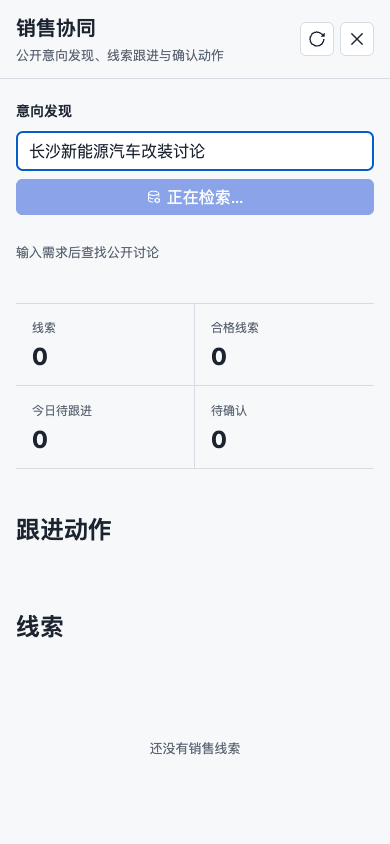
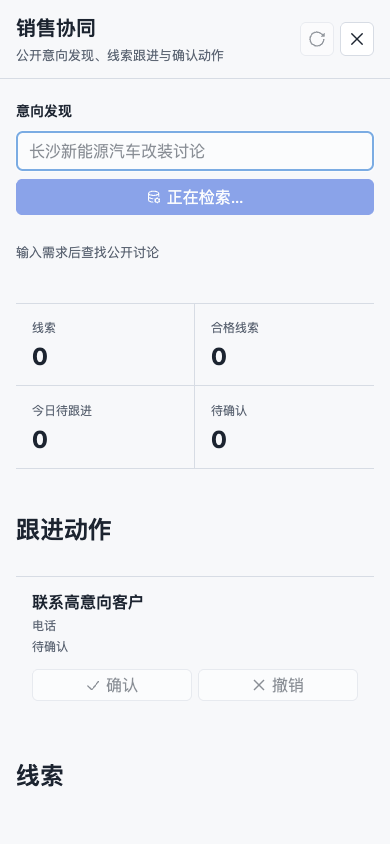
fix: 统一销售写操作忙碌态
销售检索、确认和撤销共享同步请求锁，写操作期间禁用冲突控件与刷新入口。浏览器门禁覆盖确认动作的重复提交保护，并更新移动端忙碌态证据图。

diff --git a/.ci/dsh-yootun-sales/lib/client.js b/.ci/dsh-yootun-sales/lib/client.js
@@ -28,22 +28,24 @@ window.__ModuleLoader__.load({
     async function load(signal) { const response = await fetch(PATH, { credentials: 'same-origin', redirect: 'error', signal, headers: { Accept: 'application/json' } }); if (!response.ok) throw new Error('sales request failed'); return response.json() }
     async function mutate(body) { const response = await fetch(PATH, { method: 'POST', credentials: 'same-origin', redirect: 'error', headers: { 'Content-Type': 'application/json', Accept: 'application/json' }, body: JSON.stringify(body) }); if (!response.ok) throw new Error('sales mutation failed'); return response.json() }
     function Metric({ label, value }) { return h('div', { className: 'ys-metric' }, h('span', null, label), h('strong', null, String(value ?? 0))) }
-    function IntentSearch({ t, current, update }) {
+    function IntentSearch({ t, current, update, disabled }) {
       const [query, setQuery] = useState('')
       const [busy, setBusy] = useState(false)
       const busyRef = useRef(false)
-      const run = async () => { if (busyRef.current || !query.trim()) return; busyRef.current = true; setBusy(true); try { await update({ action: 'intent_search', query: query.trim() }) } finally { busyRef.current = false; setBusy(false) } }
+      const run = async () => { if (disabled || busyRef.current || !query.trim()) return; busyRef.current = true; setBusy(true); try { await update({ action: 'intent_search', query: query.trim() }) } finally { busyRef.current = false; setBusy(false) } }
       const intent = current.intent
-      return h('section', { className: 'ys-intent', 'aria-busy': busy }, h('div', { className: 'ys-section-heading' }, h('h2', null, t('intent'))), h('div', { className: 'ys-intent-form' }, h('input', { value: query, maxLength: 500, placeholder: t('intentPlaceholder'), 'aria-label': t('intentPlaceholder'), onChange: event => setQuery(event.target.value), onKeyDown: event => { if (event.key === 'Enter') void run() } }), h('button', { type: 'button', disabled: busy || !query.trim(), onClick: () => void run() }, h(IconDataOutline16, { size: 14 }), busy ? t('intentSearching') : t('intentSearch'))), !intent ? h('div', { className: 'ys-intent-empty', role: 'status' }, t('intentEmpty')) : intent.status === 'unavailable' ? h('div', { className: 'ys-intent-empty', role: 'status' }, t('intentUnavailable')) : intent.status === 'error' ? h('div', { className: 'ys-intent-empty', role: 'alert' }, t('intentError')) : intent.items?.length ? intent.items.slice(0, 10).map((item, index) => h('article', { className: 'ys-intent-row', key: `${item.sourceUrl || item.topic || 'result'}-${index}` }, h('div', null, h('strong', null, item.topic || item.platform || t('source')), h('span', null, item.sourceUrl || ''), item.intentSignals?.length ? h('small', null, item.intentSignals.join(' · ')) : null), h('b', null, item.confidence === undefined ? '' : `${t('confidence')} ${Math.round(Number(item.confidence) * 100)}%`))) : h('div', { className: 'ys-intent-empty', role: 'status' }, t('intentEmpty')))
+      return h('section', { className: 'ys-intent', 'aria-busy': busy }, h('div', { className: 'ys-section-heading' }, h('h2', null, t('intent'))), h('div', { className: 'ys-intent-form' }, h('input', { value: query, maxLength: 500, disabled, placeholder: t('intentPlaceholder'), 'aria-label': t('intentPlaceholder'), onChange: event => setQuery(event.target.value), onKeyDown: event => { if (event.key === 'Enter') void run() } }), h('button', { type: 'button', disabled: disabled || busy || !query.trim(), onClick: () => void run() }, h(IconDataOutline16, { size: 14 }), busy ? t('intentSearching') : t('intentSearch'))), !intent ? h('div', { className: 'ys-intent-empty', role: 'status' }, t('intentEmpty')) : intent.status === 'unavailable' ? h('div', { className: 'ys-intent-empty', role: 'status' }, t('intentUnavailable')) : intent.status === 'error' ? h('div', { className: 'ys-intent-empty', role: 'alert' }, t('intentError')) : intent.items?.length ? intent.items.slice(0, 10).map((item, index) => h('article', { className: 'ys-intent-row', key: `${item.sourceUrl || item.topic || 'result'}-${index}` }, h('div', null, h('strong', null, item.topic || item.platform || t('source')), h('span', null, item.sourceUrl || ''), item.intentSignals?.length ? h('small', null, item.intentSignals.join(' · ')) : null), h('b', null, item.confidence === undefined ? '' : `${t('confidence')} ${Math.round(Number(item.confidence) * 100)}%`))) : h('div', { className: 'ys-intent-empty', role: 'status' }, t('intentEmpty')))
     }
     function statusText(status, t) { return status === 'awaiting_confirmation' ? t('pending') : status === 'confirmed_pending_adapter' ? t('adapter') : status === 'succeeded' ? t('succeeded') : status === 'failed' ? t('failed') : status === 'requires_user_login' ? t('requiresLogin') : t('dismiss') }
-    function Action({ item, t, update }) { return h('article', { className: `ys-action ys-action-${item.status}`, 'data-status': item.status }, h('div', { className: 'ys-action-main' }, h('strong', null, item.summary), h('span', null, item.channel), h('small', null, statusText(item.status, t))), item.status === 'awaiting_confirmation' ? h('div', { className: 'ys-action-buttons' }, h('button', { type: 'button', onClick: () => update({ action: 'confirm_action', id: item.id }) }, h(IconCheckOutline16, { size: 14 }), t('approve')), h('button', { type: 'button', onClick: () => update({ action: 'dismiss_action', id: item.id }) }, h(IconCloseOutline16, { size: 14 }), t('dismiss'))) : null) }
+    function Action({ item, t, update, busy }) { return h('article', { className: `ys-action ys-action-${item.status}`, 'data-status': item.status }, h('div', { className: 'ys-action-main' }, h('strong', null, item.summary), h('span', null, item.channel), h('small', null, statusText(item.status, t))), item.status === 'awaiting_confirmation' ? h('div', { className: 'ys-action-buttons' }, h('button', { type: 'button', disabled: busy, onClick: () => void update({ action: 'confirm_action', id: item.id }) }, h(IconCheckOutline16, { size: 14 }), t('approve')), h('button', { type: 'button', disabled: busy, onClick: () => void update({ action: 'dismiss_action', id: item.id }) }, h(IconCloseOutline16, { size: 14 }), t('dismiss'))) : null) }
     function Overlay({ t }) {
       const visible = useSyncExternalStore(subscribe, snapshot, snapshot)
       const shellRef = useRef(null)
       const [data, setData] = useState(null)
       const [error, setError] = useState(false)
       const [loading, setLoading] = useState(false)
+      const [busy, setBusy] = useState(false)
+      const busyRef = useRef(false)
       const [revision, setRevision] = useState(0)
       useEffect(() => {
         if (!visible) return undefined
@@ -65,9 +67,12 @@ window.__ModuleLoader__.load({
       if (!visible) return null
       const current = data || { dashboard: {}, leads: [], actions: [] }
       const update = async body => {
-        try { setData(await mutate(body)) } catch { setError(true) }
+        if (busyRef.current) return null
+        busyRef.current = true
+        setBusy(true)
+        try { const next = await mutate(body); setData(next); setError(false); return next } catch { setError(true); return null } finally { busyRef.current = false; setBusy(false) }
       }
-      const intent = h(IntentSearch, { t, current, update })
+      const intent = h(IntentSearch, { t, current, update, disabled: busy })
       const metrics = h('div', { className: 'ys-metrics' },
         h(Metric, { label: t('leads'), value: current.dashboard.leads }),
         h(Metric, { label: t('qualified'), value: current.dashboard.qualified }),
@@ -76,7 +81,7 @@ window.__ModuleLoader__.load({
       )
       const actions = h('section', { className: 'ys-section' },
         h('h2', null, t('actions')),
-        current.actions.map(item => h(Action, { key: item.id, item, t, update })),
+        current.actions.map(item => h(Action, { key: item.id, item, t, update, busy })),
       )
       const leads = h('section', { className: 'ys-section' },
         h('h2', null, t('leads')),
@@ -99,16 +104,16 @@ window.__ModuleLoader__.load({
           h('header', { className: 'ys-header' },
             h('div', null, h('h1', { id: 'ys-title' }, t('title')), h('p', null, t('subtitle'))),
             h('div', { className: 'ys-header-buttons' },
-              h(Tooltip, { label: t('refresh') }, h('button', { type: 'button', 'aria-label': t('refresh'), disabled: loading, onClick: () => setRevision(value => value + 1) }, h(IconRefreshOutline16, { size: 16 }))),
+              h(Tooltip, { label: t('refresh') }, h('button', { type: 'button', 'aria-label': t('refresh'), disabled: loading || busy, onClick: () => setRevision(value => value + 1) }, h(IconRefreshOutline16, { size: 16 }))),
               h(Tooltip, { label: t('close') }, h('button', { type: 'button', 'aria-label': t('close'), onClick: closeOverlay }, h(IconCloseOutline16, { size: 16 }))),
             ),
           ),
-          h('div', { className: 'ys-content', 'aria-busy': loading }, content),
+          h('div', { className: 'ys-content', 'aria-busy': loading || busy }, content),
         ),
       )
     }
     function Button({ wide, t }) { return h(Tooltip, { label: t('open'), disabled: wide }, h('button', { type: 'button', className: `ys-button${wide ? ' ys-wide' : ''}`, 'aria-label': t('open'), onClick: openOverlay }, h(IconDataOutline16, { size: wide ? 14 : 18 }), wide ? h('span', null, t('open')) : null)) }
-    const css = `.ys-button{display:flex;width:36px;height:36px;align-items:center;justify-content:center;gap:8px;border:0;border-radius:6px;background:transparent;color:var(--dsw-alias-label-secondary);cursor:pointer}.ys-button:hover{background:var(--dsw-alias-bg-layer-2);color:var(--dsw-alias-label-primary)}.ys-wide{width:100%;height:34px;justify-content:flex-start;padding:0 10px}.ys-wide span{font-size:13px}.ys-overlay{position:fixed;inset:0;z-index:510;background:var(--dsw-alias-bg-base);color:var(--dsw-alias-label-primary)}.ys-shell{display:grid;grid-template-rows:auto minmax(0,1fr);width:100%;height:100%;overflow:hidden}.ys-header{display:flex;min-height:74px;align-items:center;justify-content:space-between;padding:14px 24px;border-bottom:1px solid var(--dsw-alias-border-l1)}.ys-header h1{margin:0;font-size:20px}.ys-header p{margin:4px 0 0;color:var(--dsw-alias-label-secondary);font-size:13px}.ys-header-buttons{display:flex;gap:6px}.ys-header-buttons button{display:grid;width:34px;height:34px;place-items:center;border:1px solid var(--dsw-alias-border-l1);border-radius:6px;background:var(--dsw-alias-bg-layer-1);color:inherit;cursor:pointer}.ys-header-buttons button:disabled{opacity:.45;cursor:default}.ys-content{min-height:0;overflow:auto;padding:22px 24px 40px}.ys-intent,.ys-section{display:grid;gap:10px;max-width:1120px;margin:0 auto 24px}.ys-section{margin-top:24px}.ys-section-heading h2{margin:0;font-size:14px}.ys-intent-form{display:flex;gap:8px}.ys-intent-form input{flex:1;min-width:0;padding:10px 12px;border:1px solid var(--dsw-alias-border-l1);border-radius:6px;background:var(--dsw-alias-bg-layer-1);color:inherit;font:inherit}.ys-intent-form button{display:inline-flex;align-items:center;gap:6px;padding:0 14px;border:0;border-radius:6px;background:var(--dsw-alias-button-primary-fill);color:var(--dsw-alias-label-primary-foreground);font:inherit;cursor:pointer}.ys-intent-form button:disabled{opacity:.5}.ys-intent-empty{padding:18px 0;color:var(--dsw-alias-label-secondary);font-size:13px}.ys-intent-row{display:flex;justify-content:space-between;gap:16px;padding:12px 0;border-top:1px solid var(--dsw-alias-border-l1)}.ys-intent-row div{display:grid;gap:4px;min-width:0}.ys-intent-row span,.ys-intent-row small{color:var(--dsw-alias-label-secondary);font-size:12px;overflow:hidden;text-overflow:ellipsis;white-space:nowrap}.ys-intent-row b{flex:none;font-size:12px}.ys-metrics{display:grid;grid-template-columns:repeat(4,minmax(0,1fr));max-width:1120px;margin:0 auto;border-block:1px solid var(--dsw-alias-border-l1)}.ys-metric{display:grid;min-height:82px;align-content:center;gap:6px;padding:12px 16px;border-right:1px solid var(--dsw-alias-border-l1)}.ys-metric:last-child{border-right:0}.ys-metric span,.ys-lead span,.ys-lead p,.ys-action span,.ys-action small{color:var(--dsw-alias-label-secondary);font-size:12px}.ys-metric strong{font-size:24px}.ys-lead,.ys-action{display:grid;gap:6px;padding:14px 16px;border-top:1px solid var(--dsw-alias-border-l1)}.ys-action{display:flex;align-items:center;justify-content:space-between;gap:14px}.ys-action-main{display:grid;gap:4px;min-width:0}.ys-action-main strong{overflow:hidden;text-overflow:ellipsis;white-space:nowrap}.ys-action-buttons{display:flex;gap:6px;flex:none}.ys-action-buttons button,.ys-empty button{display:inline-flex;align-items:center;gap:6px;min-height:32px;padding:0 10px;border:1px solid var(--dsw-alias-border-l1);border-radius:6px;background:var(--dsw-alias-bg-layer-1);color:inherit;font:inherit;cursor:pointer}.ys-empty{display:grid;min-height:150px;place-items:center;align-content:center;gap:10px;color:var(--dsw-alias-label-secondary);font-size:13px;text-align:center}.ys-spinner{width:18px;height:18px;border:2px solid var(--dsw-alias-border-l2);border-top-color:var(--dsw-alias-brand-primary);border-radius:50%;animation:ys-spin .8s linear infinite}@keyframes ys-spin{to{transform:rotate(360deg)}}@media(max-width:800px){.ys-header,.ys-content{padding-left:16px;padding-right:16px}.ys-intent-form{flex-direction:column}.ys-intent-form button{min-height:36px;justify-content:center}.ys-metrics{grid-template-columns:repeat(2,minmax(0,1fr))}.ys-metric:nth-child(2){border-right:0}.ys-metric:nth-child(-n+2){border-bottom:1px solid var(--dsw-alias-border-l1)}.ys-action{align-items:flex-start;flex-direction:column}.ys-action-buttons{width:100%}.ys-action-buttons button{flex:1;justify-content:center}}`
+    const css = `.ys-button{display:flex;width:36px;height:36px;align-items:center;justify-content:center;gap:8px;border:0;border-radius:6px;background:transparent;color:var(--dsw-alias-label-secondary);cursor:pointer}.ys-button:hover{background:var(--dsw-alias-bg-layer-2);color:var(--dsw-alias-label-primary)}.ys-wide{width:100%;height:34px;justify-content:flex-start;padding:0 10px}.ys-wide span{font-size:13px}.ys-overlay{position:fixed;inset:0;z-index:510;background:var(--dsw-alias-bg-base);color:var(--dsw-alias-label-primary)}.ys-shell{display:grid;grid-template-rows:auto minmax(0,1fr);width:100%;height:100%;overflow:hidden}.ys-header{display:flex;min-height:74px;align-items:center;justify-content:space-between;padding:14px 24px;border-bottom:1px solid var(--dsw-alias-border-l1)}.ys-header h1{margin:0;font-size:20px}.ys-header p{margin:4px 0 0;color:var(--dsw-alias-label-secondary);font-size:13px}.ys-header-buttons{display:flex;gap:6px}.ys-header-buttons button{display:grid;width:34px;height:34px;place-items:center;border:1px solid var(--dsw-alias-border-l1);border-radius:6px;background:var(--dsw-alias-bg-layer-1);color:inherit;cursor:pointer}.ys-header-buttons button:disabled{opacity:.45;cursor:default}.ys-content{min-height:0;overflow:auto;padding:22px 24px 40px}.ys-intent,.ys-section{display:grid;gap:10px;max-width:1120px;margin:0 auto 24px}.ys-section{margin-top:24px}.ys-section-heading h2{margin:0;font-size:14px}.ys-intent-form{display:flex;gap:8px}.ys-intent-form input{flex:1;min-width:0;padding:10px 12px;border:1px solid var(--dsw-alias-border-l1);border-radius:6px;background:var(--dsw-alias-bg-layer-1);color:inherit;font:inherit}.ys-intent-form button{display:inline-flex;align-items:center;gap:6px;padding:0 14px;border:0;border-radius:6px;background:var(--dsw-alias-button-primary-fill);color:var(--dsw-alias-label-primary-foreground);font:inherit;cursor:pointer}.ys-intent-form input:disabled,.ys-intent-form button:disabled,.ys-action-buttons button:disabled{opacity:.5;cursor:default}.ys-intent-empty{padding:18px 0;color:var(--dsw-alias-label-secondary);font-size:13px}.ys-intent-row{display:flex;justify-content:space-between;gap:16px;padding:12px 0;border-top:1px solid var(--dsw-alias-border-l1)}.ys-intent-row div{display:grid;gap:4px;min-width:0}.ys-intent-row span,.ys-intent-row small{color:var(--dsw-alias-label-secondary);font-size:12px;overflow:hidden;text-overflow:ellipsis;white-space:nowrap}.ys-intent-row b{flex:none;font-size:12px}.ys-metrics{display:grid;grid-template-columns:repeat(4,minmax(0,1fr));max-width:1120px;margin:0 auto;border-block:1px solid var(--dsw-alias-border-l1)}.ys-metric{display:grid;min-height:82px;align-content:center;gap:6px;padding:12px 16px;border-right:1px solid var(--dsw-alias-border-l1)}.ys-metric:last-child{border-right:0}.ys-metric span,.ys-lead span,.ys-lead p,.ys-action span,.ys-action small{color:var(--dsw-alias-label-secondary);font-size:12px}.ys-metric strong{font-size:24px}.ys-lead,.ys-action{display:grid;gap:6px;padding:14px 16px;border-top:1px solid var(--dsw-alias-border-l1)}.ys-action{display:flex;align-items:center;justify-content:space-between;gap:14px}.ys-action-main{display:grid;gap:4px;min-width:0}.ys-action-main strong{overflow:hidden;text-overflow:ellipsis;white-space:nowrap}.ys-action-buttons{display:flex;gap:6px;flex:none}.ys-action-buttons button,.ys-empty button{display:inline-flex;align-items:center;gap:6px;min-height:32px;padding:0 10px;border:1px solid var(--dsw-alias-border-l1);border-radius:6px;background:var(--dsw-alias-bg-layer-1);color:inherit;font:inherit;cursor:pointer}.ys-empty{display:grid;min-height:150px;place-items:center;align-content:center;gap:10px;color:var(--dsw-alias-label-secondary);font-size:13px;text-align:center}.ys-spinner{width:18px;height:18px;border:2px solid var(--dsw-alias-border-l2);border-top-color:var(--dsw-alias-brand-primary);border-radius:50%;animation:ys-spin .8s linear infinite}@keyframes ys-spin{to{transform:rotate(360deg)}}@media(max-width:800px){.ys-header,.ys-content{padding-left:16px;padding-right:16px}.ys-intent-form{flex-direction:column}.ys-intent-form button{min-height:36px;justify-content:center}.ys-metrics{grid-template-columns:repeat(2,minmax(0,1fr))}.ys-metric:nth-child(2){border-right:0}.ys-metric:nth-child(-n+2){border-bottom:1px solid var(--dsw-alias-border-l1)}.ys-action{align-items:flex-start;flex-direction:column}.ys-action-buttons{width:100%}.ys-action-buttons button{flex:1;justify-content:center}}`
     const feedbackCss = '.ys-inline-error{display:flex;align-items:center;justify-content:space-between;gap:12px;max-width:1120px;margin:0 auto 16px;padding:10px 12px;border:1px solid var(--dsw-alias-state-error-primary);border-radius:6px;color:var(--dsw-alias-state-error-primary);font-size:13px}.ys-inline-error button{min-height:30px;padding:0 10px;border:1px solid currentColor;border-radius:6px;background:transparent;color:inherit;font:inherit;cursor:pointer}'
     function apply(ctx) { ctx.effect(() => ctx.locale.register(NS, copy), 'dofe-yootun-sales: dictionaries'); ctx.effect(() => { window.addEventListener(OVERLAY_EVENT, closeOtherOverlay); return () => window.removeEventListener(OVERLAY_EVENT, closeOtherOverlay) }, 'dofe-yootun-sales: exclusive-overlay'); ctx.effect(() => { const style = document.createElement('style'); style.dataset.plugin = '@dofe/dsh-yootun-sales'; style.textContent = css + feedbackCss; document.head.appendChild(style); return () => style.remove() }, 'dofe-yootun-sales: styles'); const t = ctx.locale.bind(NS); ctx.slots.inject('sidebar.footer.action', () => ctx.slots.register({ name: 'sidebar.footer.action', id: 'dofe-yootun-sales', order: 30, inject: () => ({ t }) }, Button)); ctx.slots.inject('shell.overlay', () => ctx.slots.register({ name: 'shell.overlay', id: 'dofe-yootun-sales', order: 30, inject: () => ({ t }) }, Overlay)) }
     module.exports = { apply, inject: ['slots', 'locale'] }

diff --git a/.ci/dsh-yootun-sales/src/client.js b/.ci/dsh-yootun-sales/src/client.js
@@ -23,22 +23,24 @@ const snapshot = () => opened
 async function load(signal) { const response = await fetch(PATH, { credentials: 'same-origin', redirect: 'error', signal, headers: { Accept: 'application/json' } }); if (!response.ok) throw new Error('sales request failed'); return response.json() }
 async function mutate(body) { const response = await fetch(PATH, { method: 'POST', credentials: 'same-origin', redirect: 'error', headers: { 'Content-Type': 'application/json', Accept: 'application/json' }, body: JSON.stringify(body) }); if (!response.ok) throw new Error('sales mutation failed'); return response.json() }
 function Metric({ label, value }) { return h('div', { className: 'ys-metric' }, h('span', null, label), h('strong', null, String(value ?? 0))) }
-function IntentSearch({ t, current, update }) {
+function IntentSearch({ t, current, update, disabled }) {
   const [query, setQuery] = useState('')
   const [busy, setBusy] = useState(false)
   const busyRef = useRef(false)
-  const run = async () => { if (busyRef.current || !query.trim()) return; busyRef.current = true; setBusy(true); try { await update({ action: 'intent_search', query: query.trim() }) } finally { busyRef.current = false; setBusy(false) } }
+  const run = async () => { if (disabled || busyRef.current || !query.trim()) return; busyRef.current = true; setBusy(true); try { await update({ action: 'intent_search', query: query.trim() }) } finally { busyRef.current = false; setBusy(false) } }
   const intent = current.intent
-  return h('section', { className: 'ys-intent', 'aria-busy': busy }, h('div', { className: 'ys-section-heading' }, h('h2', null, t('intent'))), h('div', { className: 'ys-intent-form' }, h('input', { value: query, maxLength: 500, placeholder: t('intentPlaceholder'), 'aria-label': t('intentPlaceholder'), onChange: event => setQuery(event.target.value), onKeyDown: event => { if (event.key === 'Enter') void run() } }), h('button', { type: 'button', disabled: busy || !query.trim(), onClick: () => void run() }, h(IconDataOutline16, { size: 14 }), busy ? t('intentSearching') : t('intentSearch'))), !intent ? h('div', { className: 'ys-intent-empty', role: 'status' }, t('intentEmpty')) : intent.status === 'unavailable' ? h('div', { className: 'ys-intent-empty', role: 'status' }, t('intentUnavailable')) : intent.status === 'error' ? h('div', { className: 'ys-intent-empty', role: 'alert' }, t('intentError')) : intent.items?.length ? intent.items.slice(0, 10).map((item, index) => h('article', { className: 'ys-intent-row', key: `${item.sourceUrl || item.topic || 'result'}-${index}` }, h('div', null, h('strong', null, item.topic || item.platform || t('source')), h('span', null, item.sourceUrl || ''), item.intentSignals?.length ? h('small', null, item.intentSignals.join(' · ')) : null), h('b', null, item.confidence === undefined ? '' : `${t('confidence')} ${Math.round(Number(item.confidence) * 100)}%`))) : h('div', { className: 'ys-intent-empty', role: 'status' }, t('intentEmpty')))
+  return h('section', { className: 'ys-intent', 'aria-busy': busy }, h('div', { className: 'ys-section-heading' }, h('h2', null, t('intent'))), h('div', { className: 'ys-intent-form' }, h('input', { value: query, maxLength: 500, disabled, placeholder: t('intentPlaceholder'), 'aria-label': t('intentPlaceholder'), onChange: event => setQuery(event.target.value), onKeyDown: event => { if (event.key === 'Enter') void run() } }), h('button', { type: 'button', disabled: disabled || busy || !query.trim(), onClick: () => void run() }, h(IconDataOutline16, { size: 14 }), busy ? t('intentSearching') : t('intentSearch'))), !intent ? h('div', { className: 'ys-intent-empty', role: 'status' }, t('intentEmpty')) : intent.status === 'unavailable' ? h('div', { className: 'ys-intent-empty', role: 'status' }, t('intentUnavailable')) : intent.status === 'error' ? h('div', { className: 'ys-intent-empty', role: 'alert' }, t('intentError')) : intent.items?.length ? intent.items.slice(0, 10).map((item, index) => h('article', { className: 'ys-intent-row', key: `${item.sourceUrl || item.topic || 'result'}-${index}` }, h('div', null, h('strong', null, item.topic || item.platform || t('source')), h('span', null, item.sourceUrl || ''), item.intentSignals?.length ? h('small', null, item.intentSignals.join(' · ')) : null), h('b', null, item.confidence === undefined ? '' : `${t('confidence')} ${Math.round(Number(item.confidence) * 100)}%`))) : h('div', { className: 'ys-intent-empty', role: 'status' }, t('intentEmpty')))
 }
 function statusText(status, t) { return status === 'awaiting_confirmation' ? t('pending') : status === 'confirmed_pending_adapter' ? t('adapter') : status === 'succeeded' ? t('succeeded') : status === 'failed' ? t('failed') : status === 'requires_user_login' ? t('requiresLogin') : t('dismiss') }
-function Action({ item, t, update }) { return h('article', { className: `ys-action ys-action-${item.status}`, 'data-status': item.status }, h('div', { className: 'ys-action-main' }, h('strong', null, item.summary), h('span', null, item.channel), h('small', null, statusText(item.status, t))), item.status === 'awaiting_confirmation' ? h('div', { className: 'ys-action-buttons' }, h('button', { type: 'button', onClick: () => update({ action: 'confirm_action', id: item.id }) }, h(IconCheckOutline16, { size: 14 }), t('approve')), h('button', { type: 'button', onClick: () => update({ action: 'dismiss_action', id: item.id }) }, h(IconCloseOutline16, { size: 14 }), t('dismiss'))) : null) }
+function Action({ item, t, update, busy }) { return h('article', { className: `ys-action ys-action-${item.status}`, 'data-status': item.status }, h('div', { className: 'ys-action-main' }, h('strong', null, item.summary), h('span', null, item.channel), h('small', null, statusText(item.status, t))), item.status === 'awaiting_confirmation' ? h('div', { className: 'ys-action-buttons' }, h('button', { type: 'button', disabled: busy, onClick: () => void update({ action: 'confirm_action', id: item.id }) }, h(IconCheckOutline16, { size: 14 }), t('approve')), h('button', { type: 'button', disabled: busy, onClick: () => void update({ action: 'dismiss_action', id: item.id }) }, h(IconCloseOutline16, { size: 14 }), t('dismiss'))) : null) }
 function Overlay({ t }) {
   const visible = useSyncExternalStore(subscribe, snapshot, snapshot)
   const shellRef = useRef(null)
   const [data, setData] = useState(null)
   const [error, setError] = useState(false)
   const [loading, setLoading] = useState(false)
+  const [busy, setBusy] = useState(false)
+  const busyRef = useRef(false)
   const [revision, setRevision] = useState(0)
   useEffect(() => {
     if (!visible) return undefined
@@ -60,9 +62,12 @@ function Overlay({ t }) {
   if (!visible) return null
   const current = data || { dashboard: {}, leads: [], actions: [] }
   const update = async body => {
-    try { setData(await mutate(body)) } catch { setError(true) }
+    if (busyRef.current) return null
+    busyRef.current = true
+    setBusy(true)
+    try { const next = await mutate(body); setData(next); setError(false); return next } catch { setError(true); return null } finally { busyRef.current = false; setBusy(false) }
   }
-  const intent = h(IntentSearch, { t, current, update })
+  const intent = h(IntentSearch, { t, current, update, disabled: busy })
   const metrics = h('div', { className: 'ys-metrics' },
     h(Metric, { label: t('leads'), value: current.dashboard.leads }),
     h(Metric, { label: t('qualified'), value: current.dashboard.qualified }),
@@ -71,7 +76,7 @@ function Overlay({ t }) {
   )
   const actions = h('section', { className: 'ys-section' },
     h('h2', null, t('actions')),
-    current.actions.map(item => h(Action, { key: item.id, item, t, update })),
+    current.actions.map(item => h(Action, { key: item.id, item, t, update, busy })),
   )
   const leads = h('section', { className: 'ys-section' },
     h('h2', null, t('leads')),
@@ -94,16 +99,16 @@ function Overlay({ t }) {
       h('header', { className: 'ys-header' },
         h('div', null, h('h1', { id: 'ys-title' }, t('title')), h('p', null, t('subtitle'))),
         h('div', { className: 'ys-header-buttons' },
-          h(Tooltip, { label: t('refresh') }, h('button', { type: 'button', 'aria-label': t('refresh'), disabled: loading, onClick: () => setRevision(value => value + 1) }, h(IconRefreshOutline16, { size: 16 }))),
+          h(Tooltip, { label: t('refresh') }, h('button', { type: 'button', 'aria-label': t('refresh'), disabled: loading || busy, onClick: () => setRevision(value => value + 1) }, h(IconRefreshOutline16, { size: 16 }))),
           h(Tooltip, { label: t('close') }, h('button', { type: 'button', 'aria-label': t('close'), onClick: closeOverlay }, h(IconCloseOutline16, { size: 16 }))),
         ),
       ),
-      h('div', { className: 'ys-content', 'aria-busy': loading }, content),
+      h('div', { className: 'ys-content', 'aria-busy': loading || busy }, content),
     ),
   )
 }
 function Button({ wide, t }) { return h(Tooltip, { label: t('open'), disabled: wide }, h('button', { type: 'button', className: `ys-button${wide ? ' ys-wide' : ''}`, 'aria-label': t('open'), onClick: openOverlay }, h(IconDataOutline16, { size: wide ? 14 : 18 }), wide ? h('span', null, t('open')) : null)) }
-const css = `.ys-button{display:flex;width:36px;height:36px;align-items:center;justify-content:center;gap:8px;border:0;border-radius:6px;background:transparent;color:var(--dsw-alias-label-secondary);cursor:pointer}.ys-button:hover{background:var(--dsw-alias-bg-layer-2);color:var(--dsw-alias-label-primary)}.ys-wide{width:100%;height:34px;justify-content:flex-start;padding:0 10px}.ys-wide span{font-size:13px}.ys-overlay{position:fixed;inset:0;z-index:510;background:var(--dsw-alias-bg-base);color:var(--dsw-alias-label-primary)}.ys-shell{display:grid;grid-template-rows:auto minmax(0,1fr);width:100%;height:100%;overflow:hidden}.ys-header{display:flex;min-height:74px;align-items:center;justify-content:space-between;padding:14px 24px;border-bottom:1px solid var(--dsw-alias-border-l1)}.ys-header h1{margin:0;font-size:20px}.ys-header p{margin:4px 0 0;color:var(--dsw-alias-label-secondary);font-size:13px}.ys-header-buttons{display:flex;gap:6px}.ys-header-buttons button{display:grid;width:34px;height:34px;place-items:center;border:1px solid var(--dsw-alias-border-l1);border-radius:6px;background:var(--dsw-alias-bg-layer-1);color:inherit;cursor:pointer}.ys-header-buttons button:disabled{opacity:.45;cursor:default}.ys-content{min-height:0;overflow:auto;padding:22px 24px 40px}.ys-intent,.ys-section{display:grid;gap:10px;max-width:1120px;margin:0 auto 24px}.ys-section{margin-top:24px}.ys-section-heading h2{margin:0;font-size:14px}.ys-intent-form{display:flex;gap:8px}.ys-intent-form input{flex:1;min-width:0;padding:10px 12px;border:1px solid var(--dsw-alias-border-l1);border-radius:6px;background:var(--dsw-alias-bg-layer-1);color:inherit;font:inherit}.ys-intent-form button{display:inline-flex;align-items:center;gap:6px;padding:0 14px;border:0;border-radius:6px;background:var(--dsw-alias-button-primary-fill);color:var(--dsw-alias-label-primary-foreground);font:inherit;cursor:pointer}.ys-intent-form button:disabled{opacity:.5}.ys-intent-empty{padding:18px 0;color:var(--dsw-alias-label-secondary);font-size:13px}.ys-intent-row{display:flex;justify-content:space-between;gap:16px;padding:12px 0;border-top:1px solid var(--dsw-alias-border-l1)}.ys-intent-row div{display:grid;gap:4px;min-width:0}.ys-intent-row span,.ys-intent-row small{color:var(--dsw-alias-label-secondary);font-size:12px;overflow:hidden;text-overflow:ellipsis;white-space:nowrap}.ys-intent-row b{flex:none;font-size:12px}.ys-metrics{display:grid;grid-template-columns:repeat(4,minmax(0,1fr));max-width:1120px;margin:0 auto;border-block:1px solid var(--dsw-alias-border-l1)}.ys-metric{display:grid;min-height:82px;align-content:center;gap:6px;padding:12px 16px;border-right:1px solid var(--dsw-alias-border-l1)}.ys-metric:last-child{border-right:0}.ys-metric span,.ys-lead span,.ys-lead p,.ys-action span,.ys-action small{color:var(--dsw-alias-label-secondary);font-size:12px}.ys-metric strong{font-size:24px}.ys-lead,.ys-action{display:grid;gap:6px;padding:14px 16px;border-top:1px solid var(--dsw-alias-border-l1)}.ys-action{display:flex;align-items:center;justify-content:space-between;gap:14px}.ys-action-main{display:grid;gap:4px;min-width:0}.ys-action-main strong{overflow:hidden;text-overflow:ellipsis;white-space:nowrap}.ys-action-buttons{display:flex;gap:6px;flex:none}.ys-action-buttons button,.ys-empty button{display:inline-flex;align-items:center;gap:6px;min-height:32px;padding:0 10px;border:1px solid var(--dsw-alias-border-l1);border-radius:6px;background:var(--dsw-alias-bg-layer-1);color:inherit;font:inherit;cursor:pointer}.ys-empty{display:grid;min-height:150px;place-items:center;align-content:center;gap:10px;color:var(--dsw-alias-label-secondary);font-size:13px;text-align:center}.ys-spinner{width:18px;height:18px;border:2px solid var(--dsw-alias-border-l2);border-top-color:var(--dsw-alias-brand-primary);border-radius:50%;animation:ys-spin .8s linear infinite}@keyframes ys-spin{to{transform:rotate(360deg)}}@media(max-width:800px){.ys-header,.ys-content{padding-left:16px;padding-right:16px}.ys-intent-form{flex-direction:column}.ys-intent-form button{min-height:36px;justify-content:center}.ys-metrics{grid-template-columns:repeat(2,minmax(0,1fr))}.ys-metric:nth-child(2){border-right:0}.ys-metric:nth-child(-n+2){border-bottom:1px solid var(--dsw-alias-border-l1)}.ys-action{align-items:flex-start;flex-direction:column}.ys-action-buttons{width:100%}.ys-action-buttons button{flex:1;justify-content:center}}`
+const css = `.ys-button{display:flex;width:36px;height:36px;align-items:center;justify-content:center;gap:8px;border:0;border-radius:6px;background:transparent;color:var(--dsw-alias-label-secondary);cursor:pointer}.ys-button:hover{background:var(--dsw-alias-bg-layer-2);color:var(--dsw-alias-label-primary)}.ys-wide{width:100%;height:34px;justify-content:flex-start;padding:0 10px}.ys-wide span{font-size:13px}.ys-overlay{position:fixed;inset:0;z-index:510;background:var(--dsw-alias-bg-base);color:var(--dsw-alias-label-primary)}.ys-shell{display:grid;grid-template-rows:auto minmax(0,1fr);width:100%;height:100%;overflow:hidden}.ys-header{display:flex;min-height:74px;align-items:center;justify-content:space-between;padding:14px 24px;border-bottom:1px solid var(--dsw-alias-border-l1)}.ys-header h1{margin:0;font-size:20px}.ys-header p{margin:4px 0 0;color:var(--dsw-alias-label-secondary);font-size:13px}.ys-header-buttons{display:flex;gap:6px}.ys-header-buttons button{display:grid;width:34px;height:34px;place-items:center;border:1px solid var(--dsw-alias-border-l1);border-radius:6px;background:var(--dsw-alias-bg-layer-1);color:inherit;cursor:pointer}.ys-header-buttons button:disabled{opacity:.45;cursor:default}.ys-content{min-height:0;overflow:auto;padding:22px 24px 40px}.ys-intent,.ys-section{display:grid;gap:10px;max-width:1120px;margin:0 auto 24px}.ys-section{margin-top:24px}.ys-section-heading h2{margin:0;font-size:14px}.ys-intent-form{display:flex;gap:8px}.ys-intent-form input{flex:1;min-width:0;padding:10px 12px;border:1px solid var(--dsw-alias-border-l1);border-radius:6px;background:var(--dsw-alias-bg-layer-1);color:inherit;font:inherit}.ys-intent-form button{display:inline-flex;align-items:center;gap:6px;padding:0 14px;border:0;border-radius:6px;background:var(--dsw-alias-button-primary-fill);color:var(--dsw-alias-label-primary-foreground);font:inherit;cursor:pointer}.ys-intent-form input:disabled,.ys-intent-form button:disabled,.ys-action-buttons button:disabled{opacity:.5;cursor:default}.ys-intent-empty{padding:18px 0;color:var(--dsw-alias-label-secondary);font-size:13px}.ys-intent-row{display:flex;justify-content:space-between;gap:16px;padding:12px 0;border-top:1px solid var(--dsw-alias-border-l1)}.ys-intent-row div{display:grid;gap:4px;min-width:0}.ys-intent-row span,.ys-intent-row small{color:var(--dsw-alias-label-secondary);font-size:12px;overflow:hidden;text-overflow:ellipsis;white-space:nowrap}.ys-intent-row b{flex:none;font-size:12px}.ys-metrics{display:grid;grid-template-columns:repeat(4,minmax(0,1fr));max-width:1120px;margin:0 auto;border-block:1px solid var(--dsw-alias-border-l1)}.ys-metric{display:grid;min-height:82px;align-content:center;gap:6px;padding:12px 16px;border-right:1px solid var(--dsw-alias-border-l1)}.ys-metric:last-child{border-right:0}.ys-metric span,.ys-lead span,.ys-lead p,.ys-action span,.ys-action small{color:var(--dsw-alias-label-secondary);font-size:12px}.ys-metric strong{font-size:24px}.ys-lead,.ys-action{display:grid;gap:6px;padding:14px 16px;border-top:1px solid var(--dsw-alias-border-l1)}.ys-action{display:flex;align-items:center;justify-content:space-between;gap:14px}.ys-action-main{display:grid;gap:4px;min-width:0}.ys-action-main strong{overflow:hidden;text-overflow:ellipsis;white-space:nowrap}.ys-action-buttons{display:flex;gap:6px;flex:none}.ys-action-buttons button,.ys-empty button{display:inline-flex;align-items:center;gap:6px;min-height:32px;padding:0 10px;border:1px solid var(--dsw-alias-border-l1);border-radius:6px;background:var(--dsw-alias-bg-layer-1);color:inherit;font:inherit;cursor:pointer}.ys-empty{display:grid;min-height:150px;place-items:center;align-content:center;gap:10px;color:var(--dsw-alias-label-secondary);font-size:13px;text-align:center}.ys-spinner{width:18px;height:18px;border:2px solid var(--dsw-alias-border-l2);border-top-color:var(--dsw-alias-brand-primary);border-radius:50%;animation:ys-spin .8s linear infinite}@keyframes ys-spin{to{transform:rotate(360deg)}}@media(max-width:800px){.ys-header,.ys-content{padding-left:16px;padding-right:16px}.ys-intent-form{flex-direction:column}.ys-intent-form button{min-height:36px;justify-content:center}.ys-metrics{grid-template-columns:repeat(2,minmax(0,1fr))}.ys-metric:nth-child(2){border-right:0}.ys-metric:nth-child(-n+2){border-bottom:1px solid var(--dsw-alias-border-l1)}.ys-action{align-items:flex-start;flex-direction:column}.ys-action-buttons{width:100%}.ys-action-buttons button{flex:1;justify-content:center}}`
 const feedbackCss = '.ys-inline-error{display:flex;align-items:center;justify-content:space-between;gap:12px;max-width:1120px;margin:0 auto 16px;padding:10px 12px;border:1px solid var(--dsw-alias-state-error-primary);border-radius:6px;color:var(--dsw-alias-state-error-primary);font-size:13px}.ys-inline-error button{min-height:30px;padding:0 10px;border:1px solid currentColor;border-radius:6px;background:transparent;color:inherit;font:inherit;cursor:pointer}'
 function apply(ctx) { ctx.effect(() => ctx.locale.register(NS, copy), 'dofe-yootun-sales: dictionaries'); ctx.effect(() => { window.addEventListener(OVERLAY_EVENT, closeOtherOverlay); return () => window.removeEventListener(OVERLAY_EVENT, closeOtherOverlay) }, 'dofe-yootun-sales: exclusive-overlay'); ctx.effect(() => { const style = document.createElement('style'); style.dataset.plugin = '@dofe/dsh-yootun-sales'; style.textContent = css + feedbackCss; document.head.appendChild(style); return () => style.remove() }, 'dofe-yootun-sales: styles'); const t = ctx.locale.bind(NS); ctx.slots.inject('sidebar.footer.action', () => ctx.slots.register({ name: 'sidebar.footer.action', id: 'dofe-yootun-sales', order: 30, inject: () => ({ t }) }, Button)); ctx.slots.inject('shell.overlay', () => ctx.slots.register({ name: 'shell.overlay', id: 'dofe-yootun-sales', order: 30, inject: () => ({ t }) }, Overlay)) }
 module.exports = { apply, inject: ['slots', 'locale'] }
